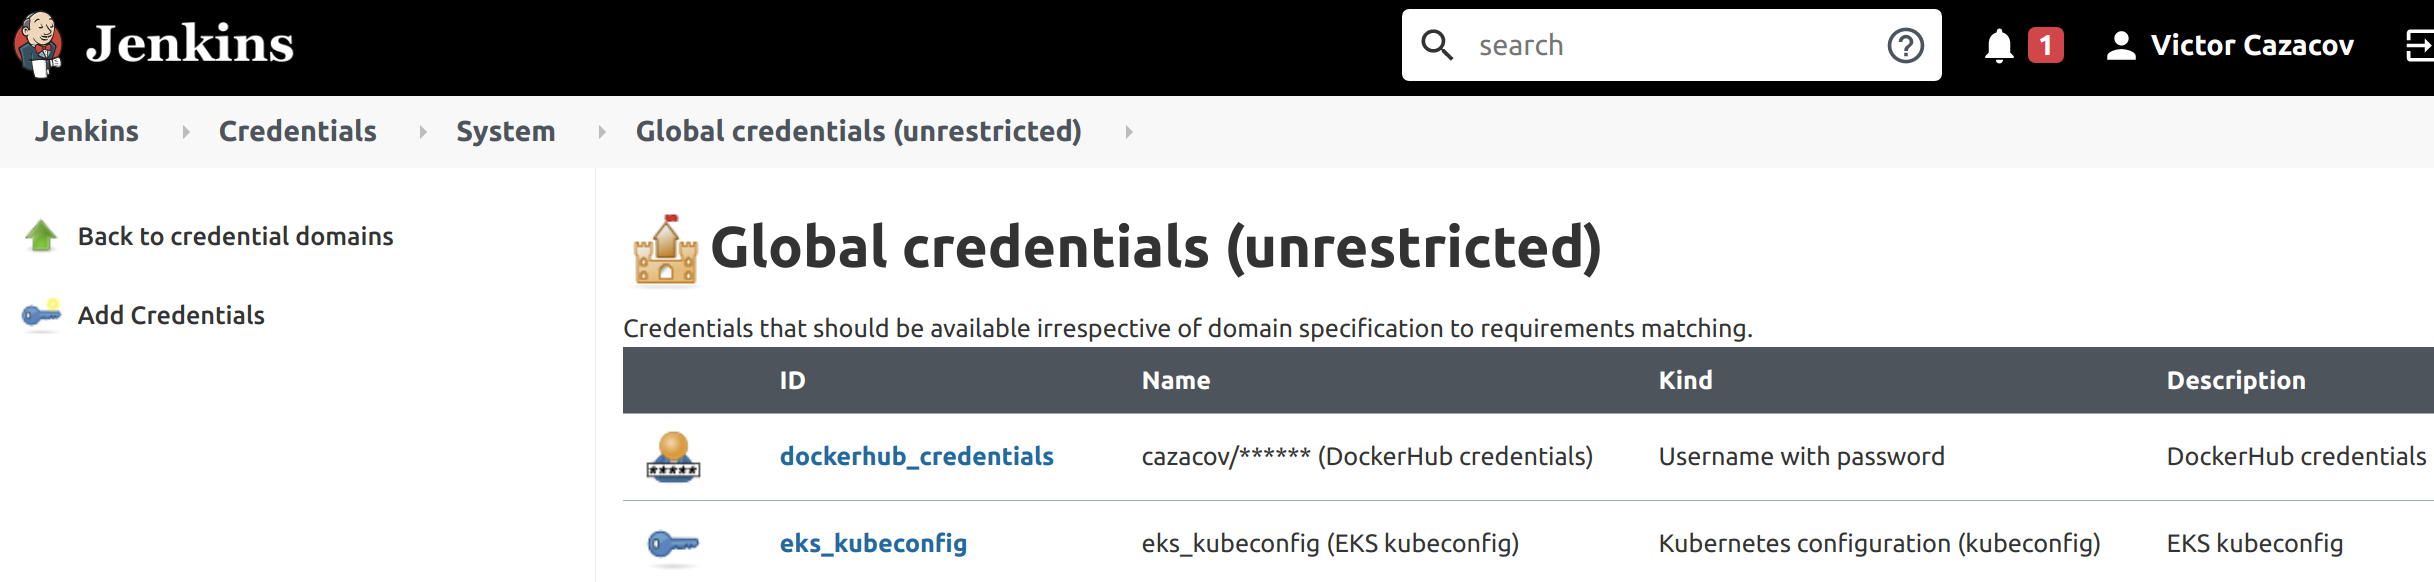
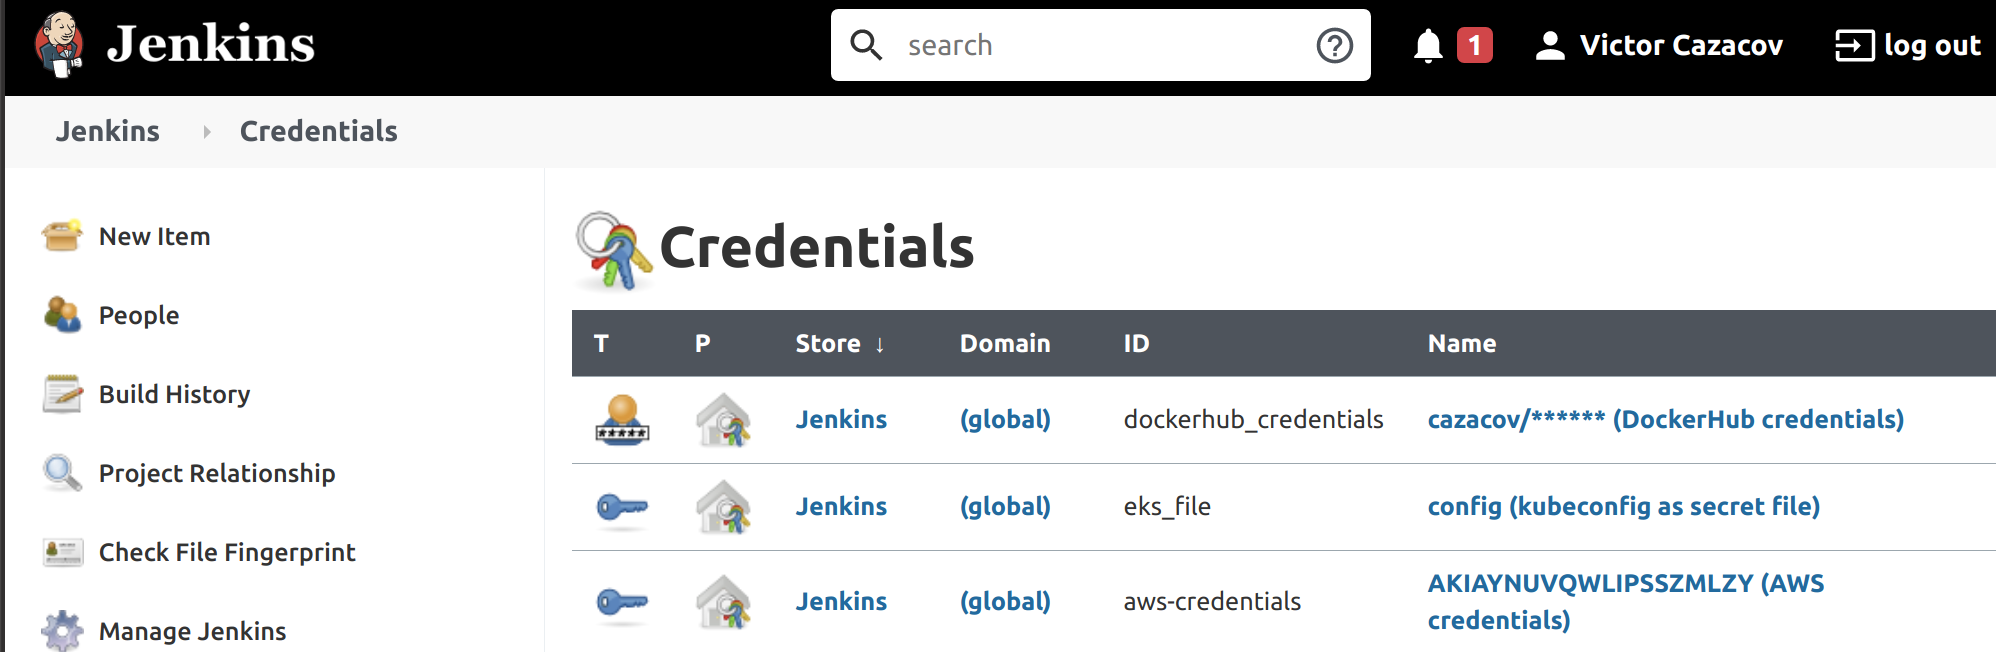
Documentation

diff --git a/README.md b/README.md
@@ -126,15 +126,13 @@ After HTML errors are fixed and changes pushed to the GitHub the status of pipel
 ![Screenshot Jenkins Lint HTML](./_img/jenkins-html-ok.png)
 
 
-## Deploying to Kubernetes
+## Manual Deployment to Kubernetes
 
 Before automating deployment with Jenkins you may wish to test your Docker build process locally.
 
-### Manual Build
-
 ```bash
 cd ./webapp
-dockerpath=cazacov/learning:capstone
+dockerpath=cazacov/learning:latest
 ```
 
 Authenticate at Docker
@@ -183,6 +181,73 @@ Using that external URL you can access the webapplication in browser:
 ![Screenshot Kubernetes](./_img/webapp.png)
 
 
-### Automated Deployment with Jenkins
+## Automated Deployment with Jenkins
 
-In Jenkins -> Manage Jenkins -> Plugin Manager install Docker Pipeline plugin.
+In Jenkins -> Manage Jenkins -> Plugin Manager install following plugins:
+- Docker Pipeline
+- Pipeline: AWS Steps
+- Kubernetes CLI plugin
+
+In Jenkins -> Manage Jenkins -> Manage Credentials store in the global scope following credentials:
+- dockerhub_credentials  - Login/Password for DockerHub communication
+- eks_file - kube config imported from EKS stored as a secret file
+- aws-credentials - AWS credentials for the user that will make deployments to the EKS cluster
+
+![Screenshot Kubernetes](./_img/jenkins-credentials.png)
+
+When EKS cluster is created, the current user automatically get permissions to manage it. To grant other users the deployment permissions you need to add user mappings as described [here](https://docs.aws.amazon.com/general/latest/gr/aws-sec-cred-types.html). Run
+
+```bash
+kubectl edit configmap aws-auth -n kube-system
+```
+
+and add the following block:
+```yaml
+mapUsers: |
+- userarn: arn:aws:iam::579060413136:user/jenkins
+    username: jenkins
+    groups:
+    - system:masters
+```        
+
+where "jenkins" is the user name that will make the deployments (Jenkins server runs as this Linux account by default). 579060413136 is my AWS-id, you can find it in the output of CloudFormation export for the EKS IAM Role on the screenshot in the section "Install Jenkins".
+
+### Deployment steps in the Jenkinsfile
+
+#### Build Docker image
+This step stamps the current build number in HTML page with the SED command and then calls Docker Pipeline to build and tag a new Docker image:
+```jenkins
+script { 
+    sh 'sed -i "s/BUILDNUMBER/$BUILD_NUMBER/g" webapp/index.html'
+    dockerImage = docker.build(registry + ":$BUILD_NUMBER", "./webapp") 
+}
+```
+
+#### Deploy image to DockerHub
+
+This step also uses Docker Pipeline plugin to login on DockerHub and push image with specific version number and then the same image tagges as "latest".
+```jenkins
+script { 
+    docker.withRegistry( '', registryCredentials) { 
+        dockerImage.push() 
+        dockerImage.push('latest') 
+    }
+} 
+```
+
+#### Deploy web-app to Kubernetes
+
+The final step should aslo be simple if you can use Jenkins Kubernetes Continuous Deploy plugin. Unfortunately the lastest version of Jenkins has some broken dependencies that are [not resolved yet](https://github.com/jenkinsci/kubernetes-cd-plugin/issues/122). My goal was to automate the build pipeline as much as possible and I did not want to manually downgrade some Jenkins plugins to specific versions, so I decided to use AWS plugin to log in on EKS and then thrigger new deployment with kubectl:
+
+```jenkins
+script {
+    withAWS(credentials: 'aws-credentials', region: 'us-west-2') {
+        sh 'sed -i "s/latest/$BUILD_NUMBER/g" kubernetes-deployment/deployment.yaml'
+        withKubeConfig([credentialsId: 'eks_file', contextName: 'arn:aws:eks:us-west-2:579060413136:cluster/udacity-devops-eks']) {
+            sh 'kubectl apply -f kubernetes-deployment/deployment.yaml'
+        }
+    }
+}
+```
+
+This code also uses SED to put on the fly the current build number in the deployment manifest, because it generally not recommended to reference your container version as "latest".
